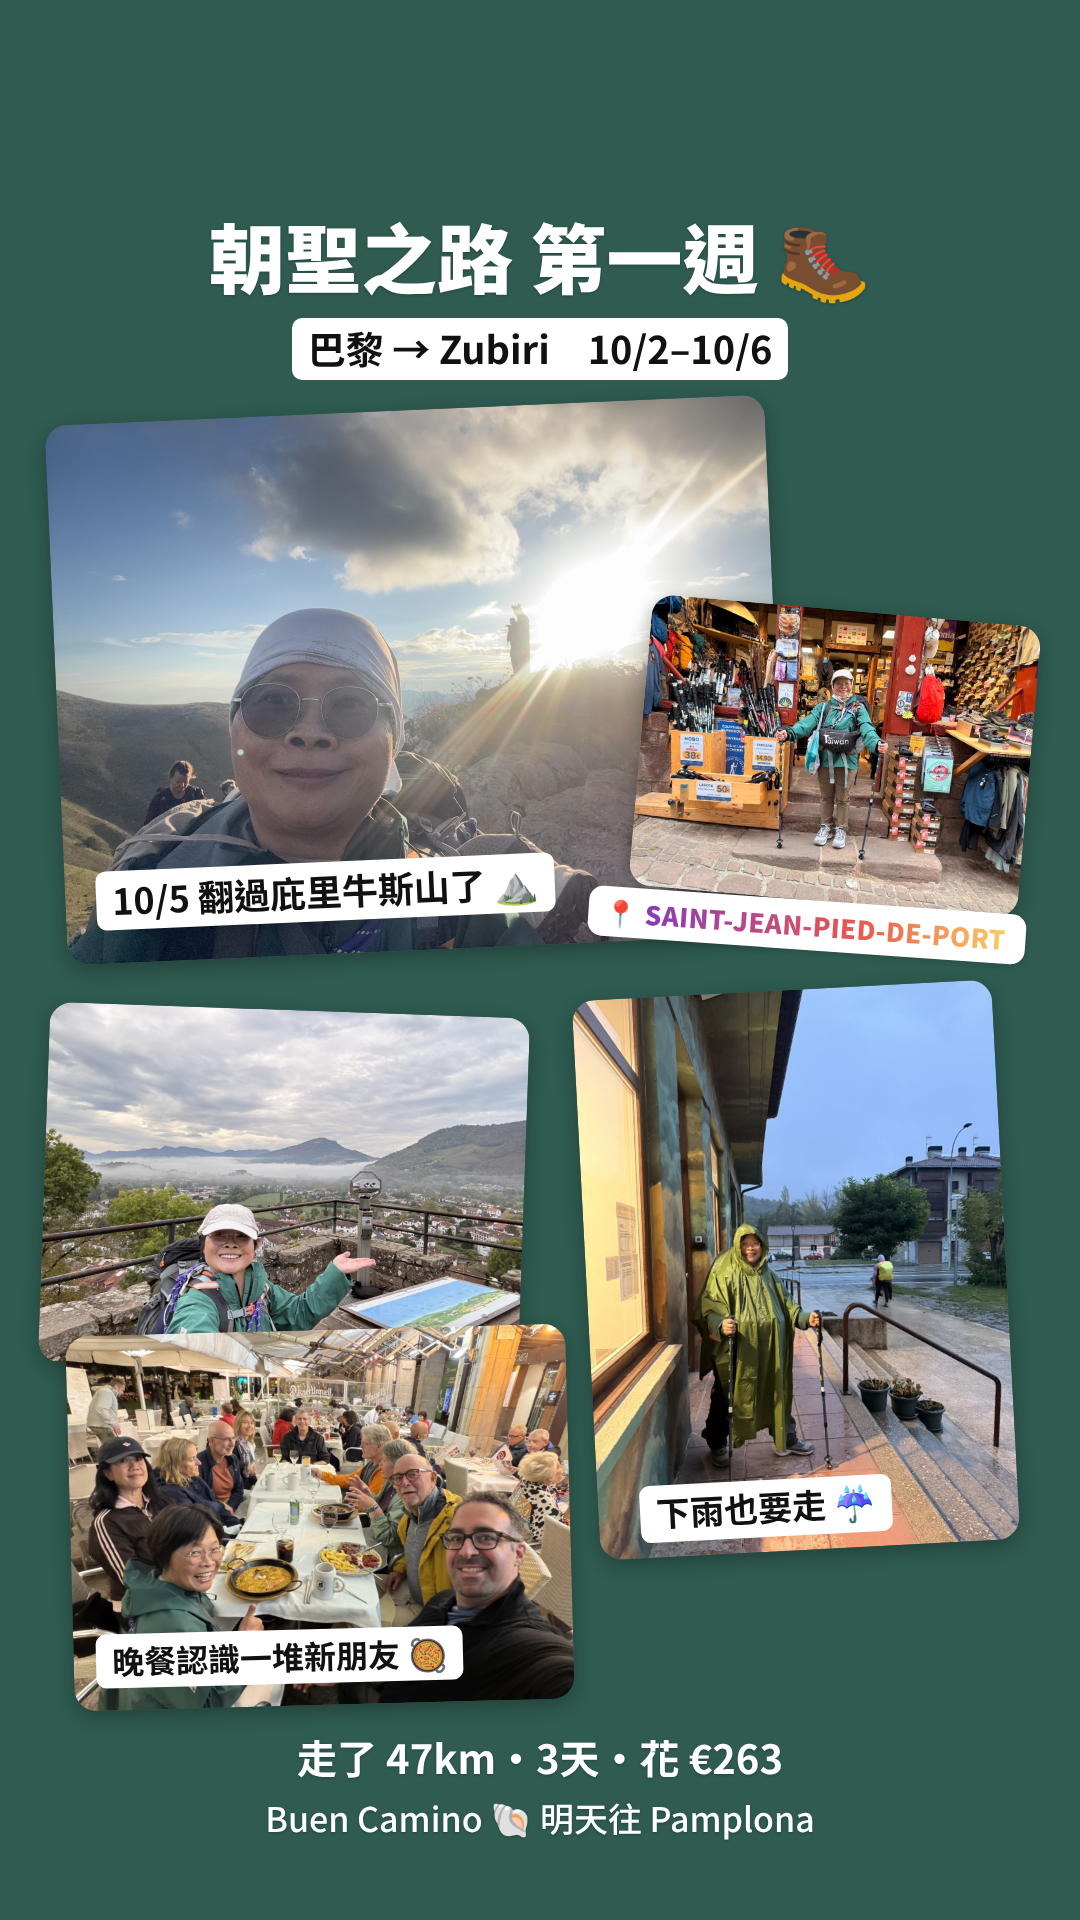
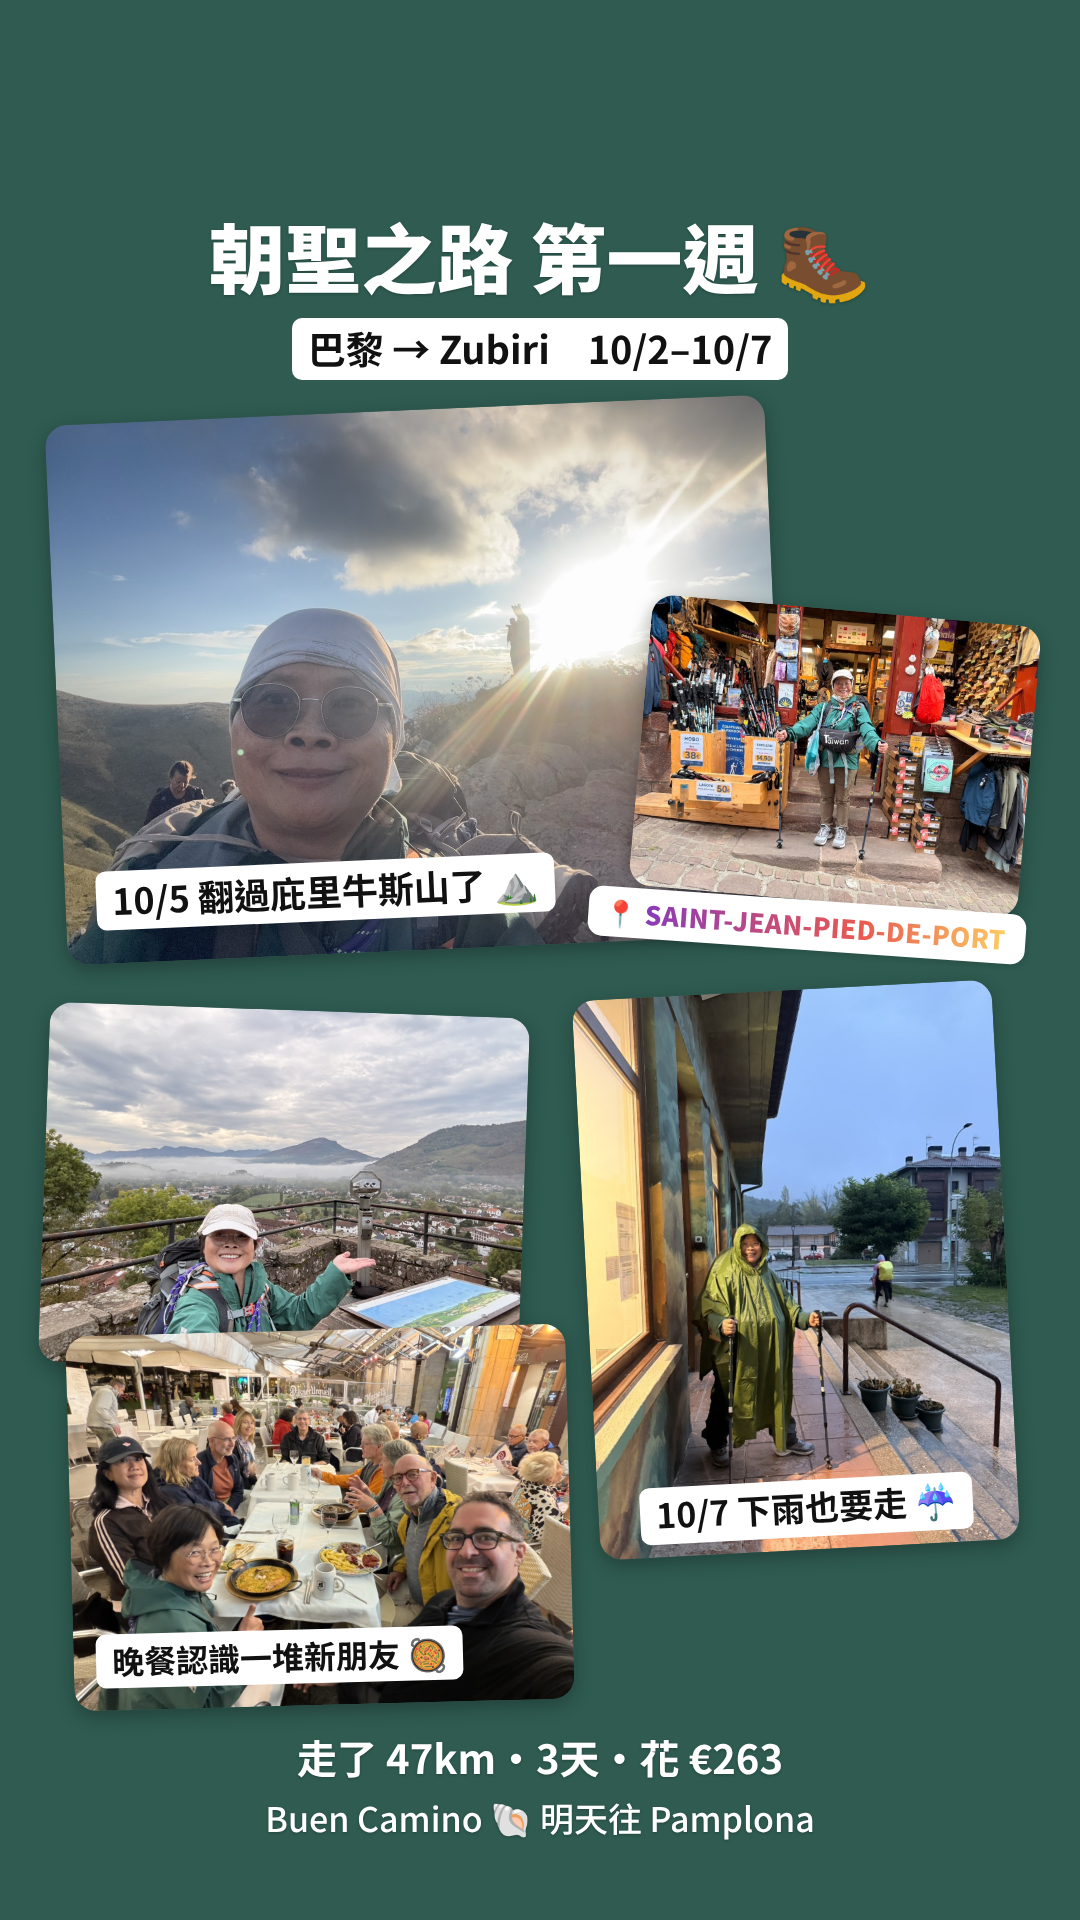
Date the rain photo 10/7
Claude-Session: https://claude.ai/code/session_016GtYmnEBYrU1xZ2scf5AqF

Changed region(s): [[0.6111, 0.75, 0.9167, 0.8125]]

diff --git a/ig-story/c-ig.html b/ig-story/c-ig.html
@@ -21,7 +21,7 @@
 </style></head><body>
 <div class="story">
   <div class="abs txt" style="left:0;right:0;top:200px;text-align:center;font-size:76px;font-weight:900">朝聖之路 第一週 🥾</div>
-  <div class="abs" style="left:0;right:0;top:318px;text-align:center"><span class="hl" style="font-size:38px">巴黎 → Zubiri　10/2–10/6</span></div>
+  <div class="abs" style="left:0;right:0;top:318px;text-align:center"><span class="hl" style="font-size:38px">巴黎 → Zubiri　10/2–10/7</span></div>
 
   <div class="ph" style="left:56px;top:410px;width:720px;height:540px;transform:rotate(-2.5deg)"><img src="photos/1005-pyrenees-hd.jpg"></div>
   <div class="abs" style="left:96px;top:862px;transform:rotate(-2.5deg)"><span class="hl" style="font-size:36px">10/5 翻過庇里牛斯山了 ⛰</span></div>
@@ -31,7 +31,7 @@
 
   <div class="ph" style="left:44px;top:1010px;width:480px;height:360px;transform:rotate(2deg)"><img src="photos/1004-view.jpg"></div>
   <div class="ph" style="left:586px;top:990px;width:420px;height:560px;transform:rotate(-3deg)"><img src="photos/1006-rain.jpg" style="object-position:50% 60%"></div>
-  <div class="abs" style="left:640px;top:1480px;transform:rotate(-3deg)"><span class="hl" style="font-size:34px">下雨也要走 ☔</span></div>
+  <div class="abs" style="left:640px;top:1480px;transform:rotate(-3deg)"><span class="hl" style="font-size:34px">10/7 下雨也要走 ☔</span></div>
 
   <div class="ph" style="left:70px;top:1330px;width:500px;height:375px;transform:rotate(-1.5deg)"><img src="photos/dinner.jpg"></div>
   <div class="abs" style="left:96px;top:1630px;transform:rotate(-1.5deg)"><span class="hl" style="font-size:32px">晚餐認識一堆新朋友 🥘</span></div>

diff --git a/ig-story/b-film.html b/ig-story/b-film.html
@@ -48,7 +48,7 @@
   </div>
   <div class="abs strip s2">
     <div class="edge" style="right:-1px;top:380px">◀ 4 · 5 · 6</div>
-    <div class="fr"><img src="photos/1006-rain.jpg" style="object-position:50% 72%"><span class="l">雨中出發</span><span class="d">'26 10 06</span></div>
+    <div class="fr"><img src="photos/1006-rain.jpg" style="object-position:50% 72%"><span class="l">雨中出發</span><span class="d">'26 10 07</span></div>
     <div class="fr"><img src="photos/dinner.jpg" style="object-position:50% 50%"><span class="l">朝聖夥伴的晚餐</span><span class="d">'26 10 06</span></div>
     <div class="fr blank nogr"><div>Buen Camino!<small>下一站 → Pamplona</small></div></div>
   </div>
